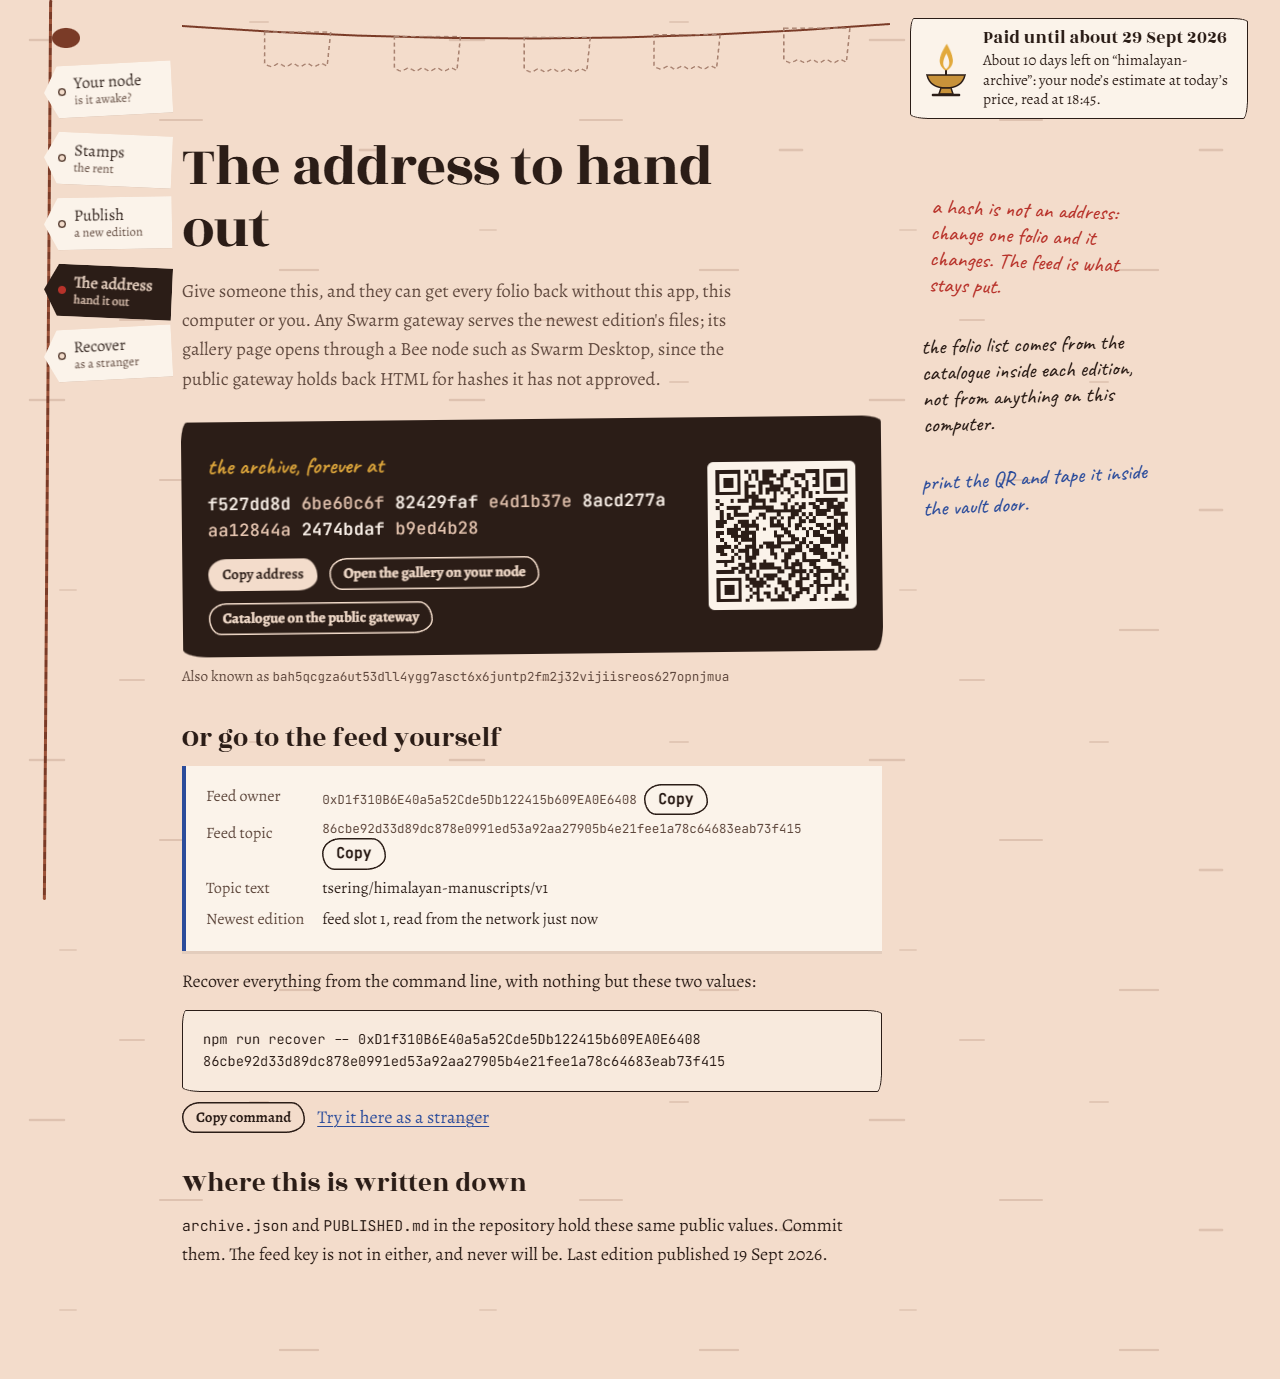
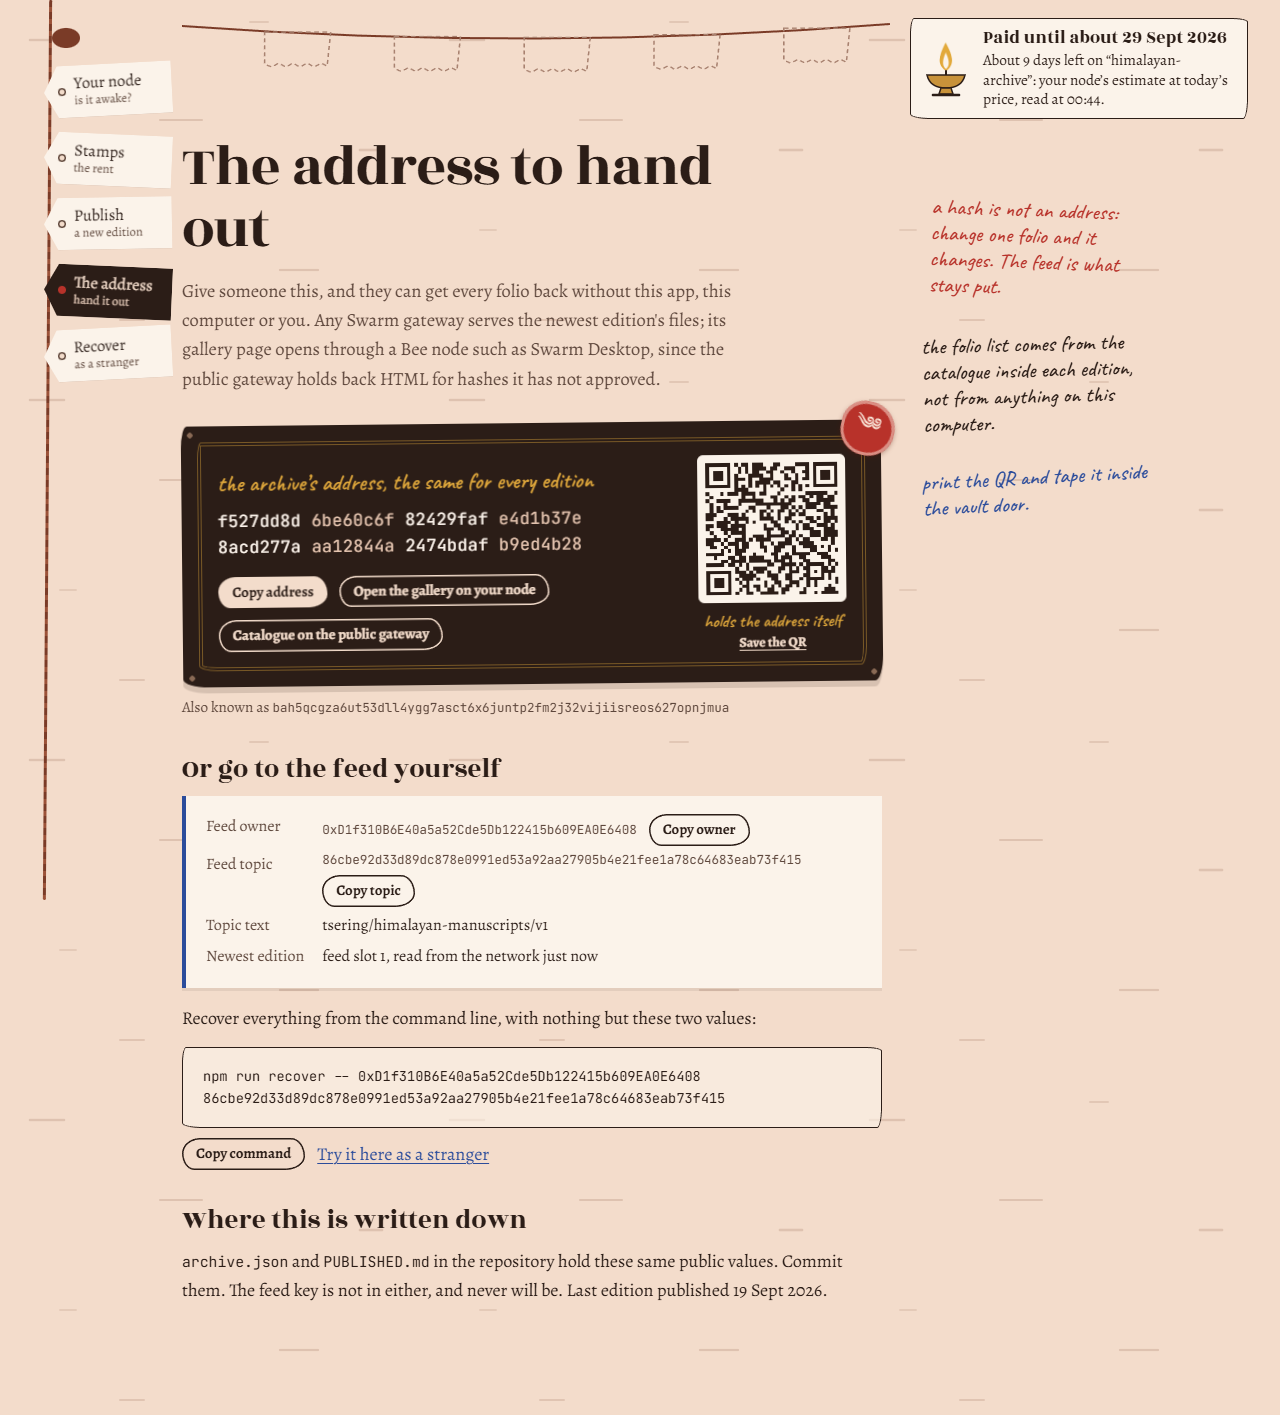
docs(screenshots): recapture address, recover and reader after the polish pass

diff --git a/README.md b/README.md
@@ -134,10 +134,10 @@ Older editions stay retrievable by their snapshot reference while their postage 
 |---|---|
 | ![The gallery page of the live archive, served by a local Bee node](docs/screenshots/gallery-node.png) | ![reader/recover.html opened from disk against the public gateway, showing 18 of 18 files match](docs/screenshots/reader-verified.png) |
 | **The archive itself**, opened at `/bzz/f527dd8d…/` on a local Bee node. The gallery ships inside every edition and asks the node for today's TTL: "about 10 days left, so paid until about September 29, 2026" | **A stranger's recovery in the browser.** `reader/recover.html` opened from disk, owner + topic, public gateway: newest edition is update #1, **18 of 18 files match** |
-| ![The address screen: archive address with a QR code, feed owner and topic, and the lamp lit by the batch's live TTL](docs/screenshots/address.png) | ![The node screen: Bee 2.8.2 in light mode with wallet balances](docs/screenshots/node.png) |
+| ![The address screen: the archive address on an engraved plate with a QR code, feed owner and topic, and the lamp lit by the batch's live TTL](docs/screenshots/address.png) | ![The node screen: Bee 2.8.2 in light mode with wallet balances](docs/screenshots/node.png) |
 | **The address to hand out**, with a QR code, owner and topic, and the recover command. The lamp is lit only by the node's TTL | **Your node**: Bee 2.8.2 in light mode, read live. The margin note is the rule: the gift code lives in Swarm Desktop, never in the repo |
-| ![Publish screen: the folios on the desk before a rehearsal](docs/screenshots/publish.png) | ![Recover screen in the web UI](docs/screenshots/recover.png) |
-| **Publish**: the folios on the desk, then a dry run before anything is paid for (captured before the first batch was bought, so the lamp is unlit) | **Recover as a stranger** in the web UI: the one address, or owner + topic, and a gateway |
+| ![Publish screen: the folios on the desk before a rehearsal](docs/screenshots/publish.png) | ![Recover screen in the web UI after a real recovery from the public gateway: a row of cinnabar seals and 18 of 18 files intact](docs/screenshots/recover.png) |
+| **Publish**: the folios on the desk, then a dry run before anything is paid for (captured before the first batch was bought, so the lamp is unlit) | **Recover as a stranger** in the web UI: the one address and the public gateway. Each file gets a seal as its SHA-256 checks out: **18 of 18 intact** |
 
 <img src="docs/screenshots/stamps-phone.png" alt="Stamps screen at phone width: the lamp lit with paid until about 29 Sept 2026, and the node's batches each with a node-reported end date" width="240" align="right">
 
@@ -145,8 +145,9 @@ Older editions stay retrievable by their snapshot reference while their postage 
 read. The node in this screenshot holds two batches: `himalayan-archive` is this archive's
 (`bb1f753e…4c97`); `lsc-catalogue` belongs to another project on the same node.
 
-The screenshots of the gallery, the reader, the address, node and stamps screens were captured on
-19 Sept 2026 with read-only requests against the live node and gateway.
+The screenshots of the gallery, node and stamps screens were captured on 19 Sept 2026, and the
+reader, address and recover screens on 20 Sept 2026, all with read-only requests against the live
+node and public gateway.
 <br clear="right">
 
 ## Quick start
